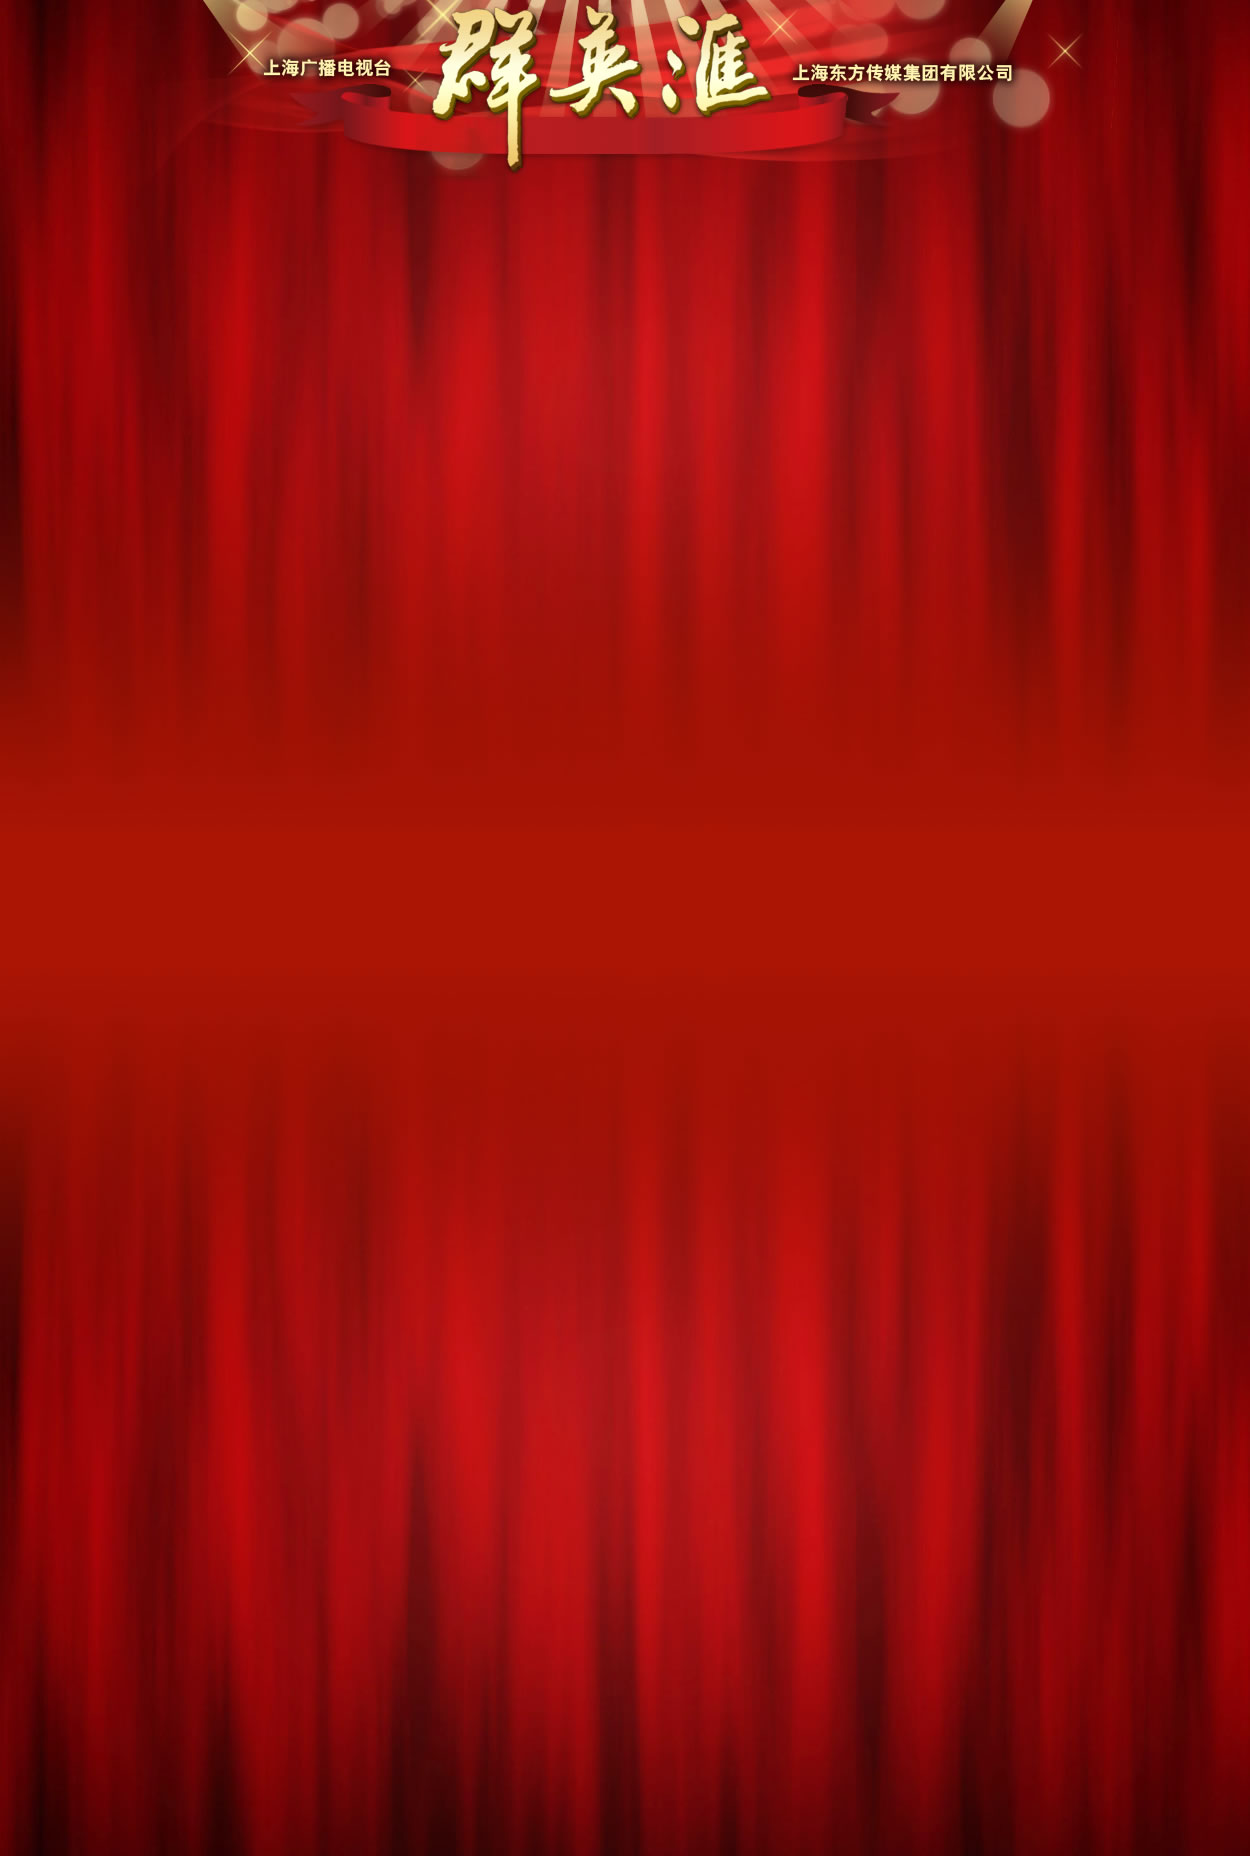
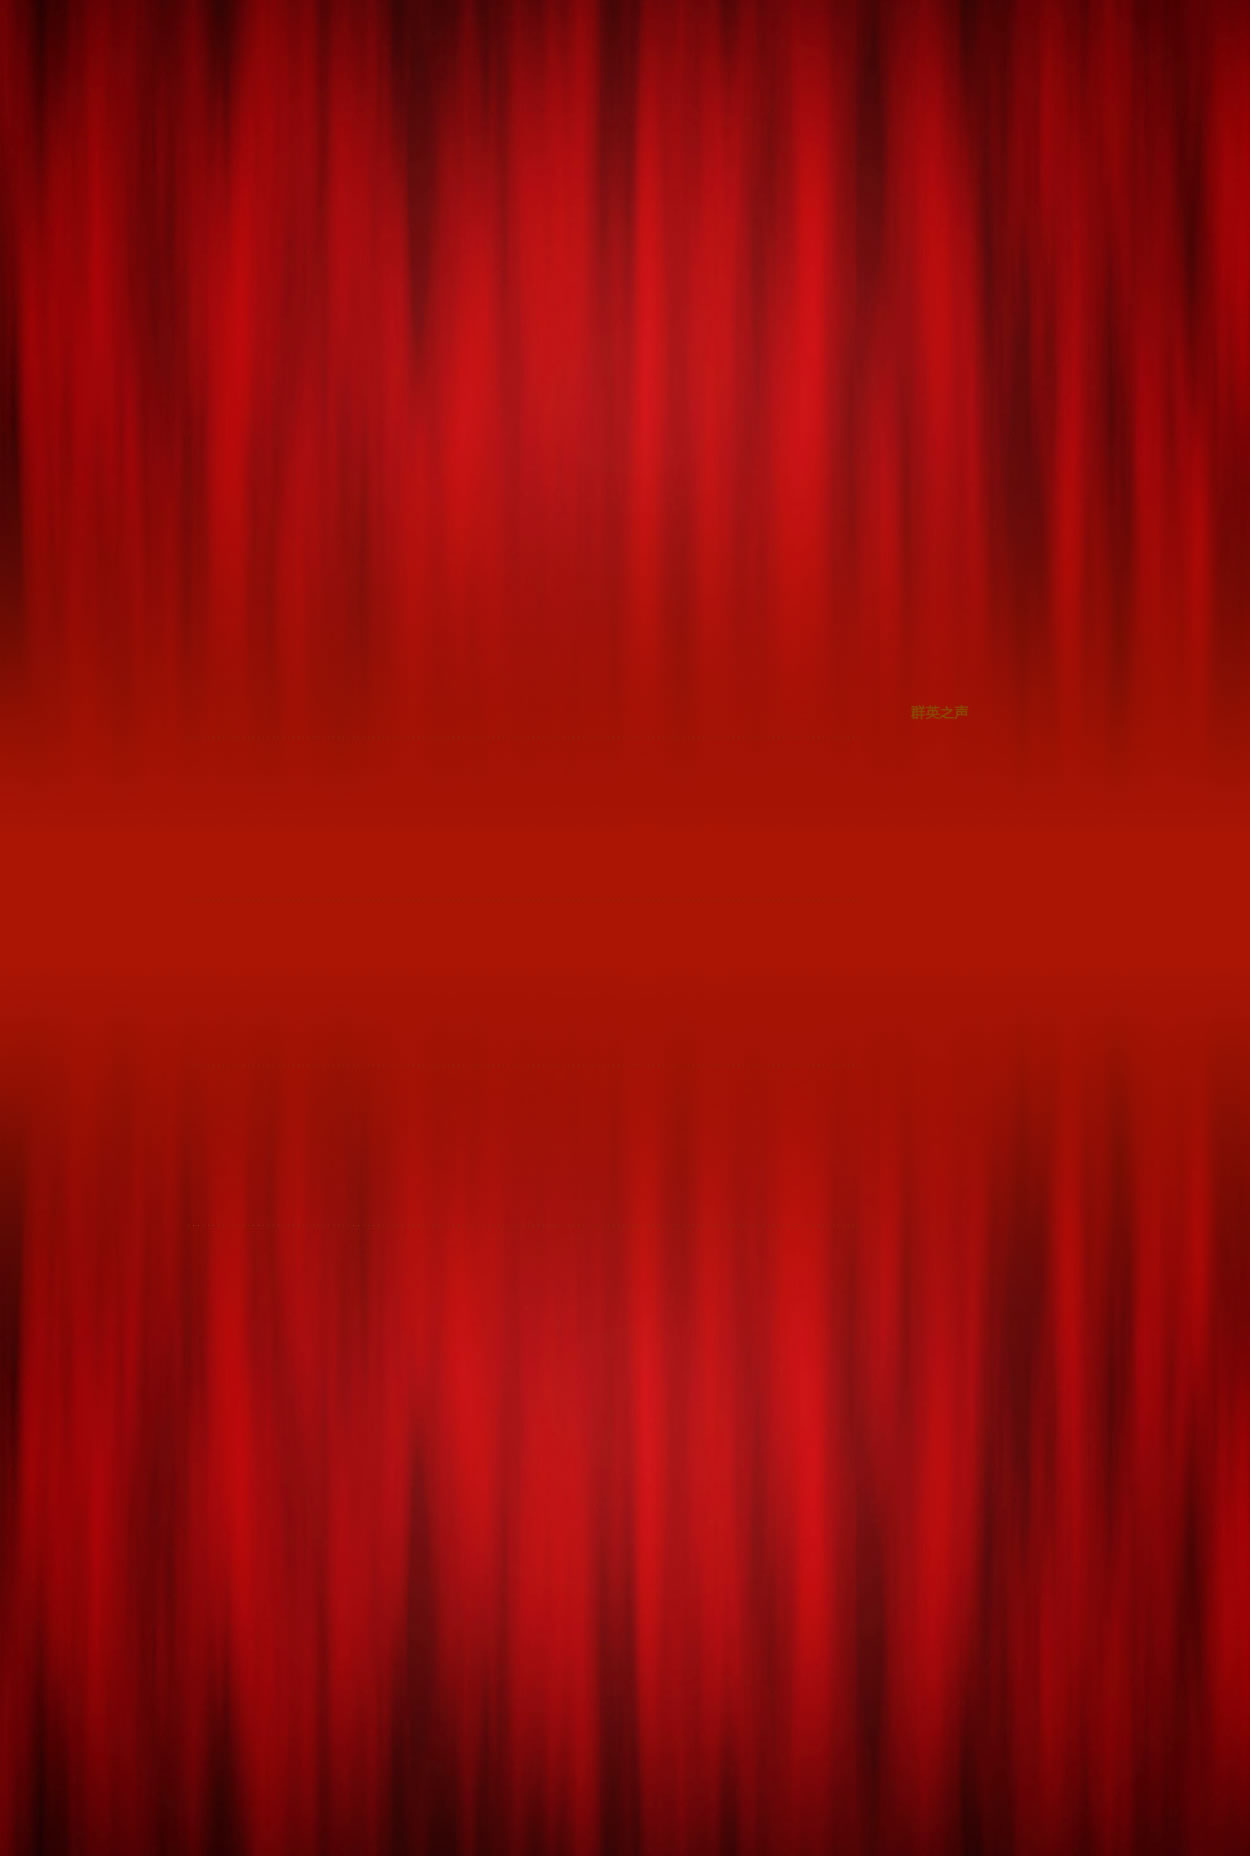
robbin

Changed region(s): [[0.156, 0.0, 0.8424, 0.0938]]

diff --git a/css/fqzk.css b/css/fqzk.css
@@ -1,0 +1,22 @@
+body {margin:0px; font-family:宋体; font-size:12px; line-height:0px; color:#000000;}
+
+#ibody{width:995px; margin:0 auto; margin-top:10px;}
+#title{width:995px; height:33px; background:url('/images/fqzk/title_bg.jpg') repeat-x; float:left; display:inline;}
+#title #wz{height:33px; margin-left:10px; color:#ffffff; font-size:24px; font-weight:bold; line-height:33px; float:left; display:inline;}
+#title #qs{width:70px; height:19px; margin-top:7px; margin-right:10px; text-align:center; background:url('/images/fqzk/qs_bg.jpg') no-repeat; color:#ffffff; line-height:19px; float:right; display:inline;}
+#itop{width:995px; background:#333333; padding-bottom:10px; float:left; display:inline;}
+#t_l{width:205px; margin-left:14px; float:left; display:inline;}
+.l_title{width:205px; height:20px; margin-top:10px; line-height:20px; float:left; display:inline;}
+.l_title .title_name{width:110px; height:20px; color:#ffffff; overflow:hidden; overflow:hidden; float:left; display:inline;}
+.l_title .click_count{width:90px; height:20px; color:#ffffff; overflow:hidden; text-align:right; float:right; display:inline;}
+#itop img{width:201px; height:97px; margin-top:3px; margin-left:2px;}
+.video1{width:205px; height:103px; background:url('/images/fqzk/video1.jpg') no-repeat; float:left; display:inline;}
+.video2{width:205px; height:103px; background:url('/images/fqzk/video2.jpg') no-repeat; float:left; display:inline;}
+.video3{width:205px; height:103px; background:url('/images/fqzk/video3.jpg') no-repeat; float:left; display:inline;}
+#t_c{width:491px; height:540px; margin-left:35px; float:left; display:inline;}
+#t_c #c_title{width:491px; height:20px; margin-top:10px; line-height:20px; color:#ffffff; float:left; display:inline;}
+#t_c #video{width:491px; height:388px; float:left; display:inline;}
+#t_r{width:205px; margin-right:15px; float:right; display:inline;}
+#t_b{width:995px; height:141px; background:url(/images/fqzk/t_b_bg.jpg) no-repeat; float:left; display:inline;}
+#b_l{width:489px; height:526px; background:url(/images/fqzk/b_l_bg.jpg) no-repeat; float:left; display:inline;}
+.btn{width:158px; height:40px; border:0px; line-height:40px; color:#ffffff; background:url float:left; display:inline;}

diff --git a/fqzk/index.php b/fqzk/index.php
@@ -1,0 +1,96 @@
+<?php
+	require_once('../frame.php');
+	
+?>
+<!DOCTYPE HTML PUBLIC "-//W3C//DTD HTML 4.01 Transitional//EN" "http://www.w3c.org/TR/1999/REC-html401-19991224/loose.dtd">
+<html xmlns="http://www.w3.org/1999/xhtml">
+<head>
+	<meta http-equiv=Content-Type content="text/html; charset=utf-8">
+	<meta http-equiv=Content-Language content=zh-cn>
+	<title>SMG-番茄网-番茄周刊</title>
+	<?php css_include_tag('fqzk','top','bottom');
+		use_jquery();
+		js_include_once_tag('total');
+	 ?>
+<script>
+	total("番茄周刊","other");
+</script>
+</head>
+<body>
+	<? require_once('../inc/top.inc.html');?>
+	<div id=ibody>
+		<div id=title>
+			<div id=wz>番茄周刊</div>
+			<div id=qs>第一期</div>
+		</div>
+		<div id=itop>
+			<div id=t_l>
+				<div class="l_title">
+					<div class="title_name">视频</div>
+					<div class="click_count">点击数：次</div>
+				</div>
+				<div class=video1>
+					<img src="">	
+				</div>
+				<div class="l_title">
+					<div class="title_name">视频</div>
+					<div class="click_count">点击数：次</div>
+				</div>
+				<div class=video2>
+					<img src="">	
+				</div>
+				<div class="l_title">
+					<div class="title_name">视频</div>
+					<div class="click_count">点击数：次</div>
+				</div>
+				<div class=video3>
+					<img src="">		
+				</div>
+				<div class="l_title">
+					<div class="title_name">视频</div>
+					<div class="click_count">点击数：次</div>
+				</div>
+				<div class=video2>
+					<img src="">	
+				</div>
+			</div>
+			<div id=t_c>
+					<div id=c_title>视频</div>
+					<div id=video><iframe id=video_src src="index_video.php?photo=<?php echo $record_video[0]->video_photo_src; ?>&video=<?php echo $record_video[0]->video_src ?>" width=491 height=388 scrolling="no" frameborder="0"></iframe></div>
+			</div>
+			<div id=t_r>
+				<div class="l_title">
+					<div class="title_name">视频</div>
+					<div class="click_count">点击数：次</div>
+				</div>
+				<div class=video3>
+					<img src="">	
+				</div>
+				<div class="l_title">
+					<div class="title_name">视频</div>
+					<div class="click_count">点击数：次</div>
+				</div>
+				<div class=video1>
+					<img src="">	
+				</div>
+				<div class="l_title">
+					<div class="title_name">视频</div>
+					<div class="click_count">点击数：次</div>
+				</div>
+				<div class=video3>
+					<img src="">		
+				</div>
+				<div class="l_title">
+					<div class="title_name">视频</div>
+					<div class="click_count">点击数：次</div>
+				</div>
+				<div class=video2>
+					<img src="">	
+				</div>
+			</div>
+		</div>
+		<div id=t_b></div>
+	</div>
+	<? require_once('../inc/bottom.inc.html');?>
+</body>
+</html>

diff --git a/inc/top.inc.php b/inc/top.inc.php
@@ -30,12 +30,12 @@
 		<a target="_blank" style="margin-right:5px; color:#0B0B8D; font-weight:bold; line-height:24px; text-decoration:none; float:right; display:inline;" href="http://172.27.203.81:8080/news/news/news.php?id=43221">SMG电子邮件帐号清理通知</a>
 	</div>
 </div>
-<div id=fd></div>
 <div id=nimg1>
 	<?php $days=daysInSpan(mktime(0,0,0,date('m'),date('d'),date('Y')),mktime(0,0,0,11,01,2009));?>
+	<a target="_blank" href="http://172.27.203.81:8080/subject/jwzxsbh/"><img border=0 src="/images/top_banner.jpg"></a>
 	<!--<a target="_blank" href="/news/news/news_head.php?id=32903"><img border=0 src="/images/dfws.jpg"></a>-->
 	<!--<div class=deptlogo name="1" style="margin-left:450px;"></div><div class=deptlogo name="2" style="margin-left:9px;"></div><div class=deptlogo name="3" style="margin-left:10px;"></div><div class=deptlogo name="4" style="margin-left:9px;"></div><div class=deptlogo name="5" style="margin-left:9px;"></div>-->
-	<embed wmode="transparent" src="/images/1.swf" quality="high" width=995 height=100 type='application/x-shockwave-flash'></embed>
+	<!--<embed wmode="transparent" src="/images/1.swf" quality="high" width=995 height=100 type='application/x-shockwave-flash'></embed>-->
 </div>
 
 <div id=nav2>
@@ -184,9 +184,6 @@
 			{
 				location.href="http://172.27.203.81:8080/blog/?uid-3327";
 			}
-		});
-		$("#fd").click(function(){
-			location.href="http://172.27.203.81:8080/subject/jwzxsbh/";
 		});
 	});
 </script>

diff --git a/fqzk/index_video.php b/fqzk/index_video.php
@@ -1,0 +1,28 @@
+<?php
+	require_once('../frame.php');
+?>
+<!DOCTYPE HTML PUBLIC "-//W3C//DTD HTML 4.01 Transitional//EN" "http://www.w3c.org/TR/1999/REC-html401-19991224/loose.dtd">
+<html xmlns="http://www.w3.org/1999/xhtml">
+<head>
+	<meta http-equiv=Content-Type content="text/html; charset=utf-8">
+	<meta http-equiv=Content-Language content=zh-cn>
+	<? 	
+		css_include_tag('index');
+  ?>
+</head>
+
+<body>
+<object classid="clsid:D27CDB6E-AE6D-11cf-96B8-444553540000" codebase="http://download.macromedia.com/pub/shockwave/cabs/flash/swflash.cab#version=8,0,0,0" width="491" height="388" id="FLVPlayer">
+ <param name="movie" value="/flash/mediaplayer.swf" />
+ <param name="salign" value="lt" />
+ <param name="quality" value="high" />
+ <PARAM   NAME= "autoStart"   VALUE= "true"> 
+ <param name="wmode" value="opaque" />
+ <param name="scale" value="noscale" />
+ <param name="allowfullscreen" value="true" />
+ <param name="FlashVars" value="&image=<?php echo $_REQUEST['photo'] ?>&file=<?php echo $_REQUEST['video'] ?>&displayheight=370&autostart=false" />
+ <embed src="/flash/mediaplayer.swf" flashvars="&image=<?php echo $_REQUEST['photo']?>&file=<?php echo $_REQUEST['video'] ?>&displayheight=370&autostart=false" quality="high" scale="noscale" width="491" height="388" name="FLVPlayer" wmode="opaque" salign="LT" type="application/x-shockwave-flash" pluginspage="http://www.macromedia.com/go/getflashplayer" />
+</object>
+
+</body>
+</html>

diff --git a/news/news.php b/news/news.php
@@ -24,7 +24,7 @@
 		$string = 'http://' .$_SERVER[HTTP_HOST].$_SERVER['PHP_SELF'].'?id='.$id;
 		css_include_tag('news_news','top','bottom');
 		use_jquery();
-		js_include_once_tag('pubfun','news','pub','total','total1');
+		js_include_once_tag('pubfun','news','pub','total');
 		$datetime1=date('Y-m-d')." 00:00:00";
 		$datetime2=date('Y-m-d')." 23:59:59";
 		$db = get_db();
